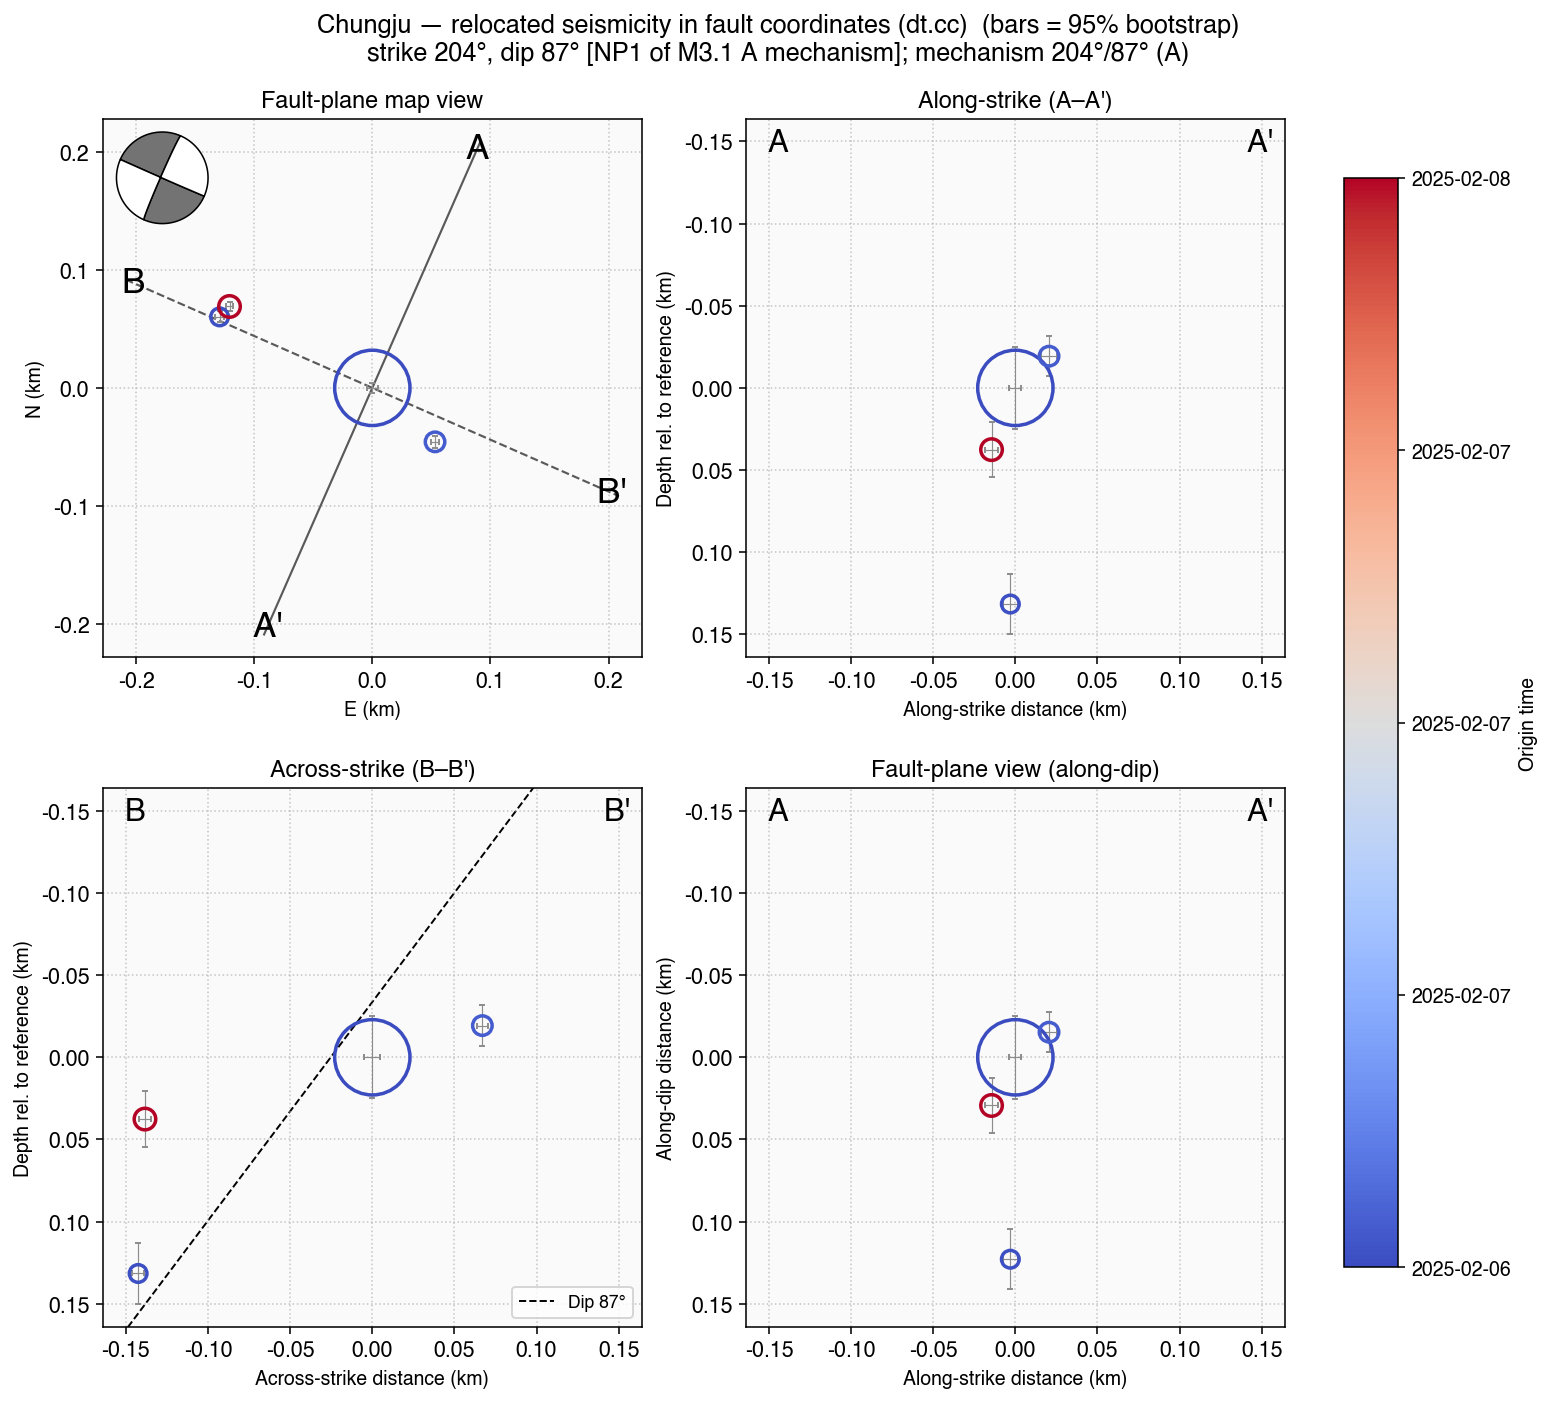
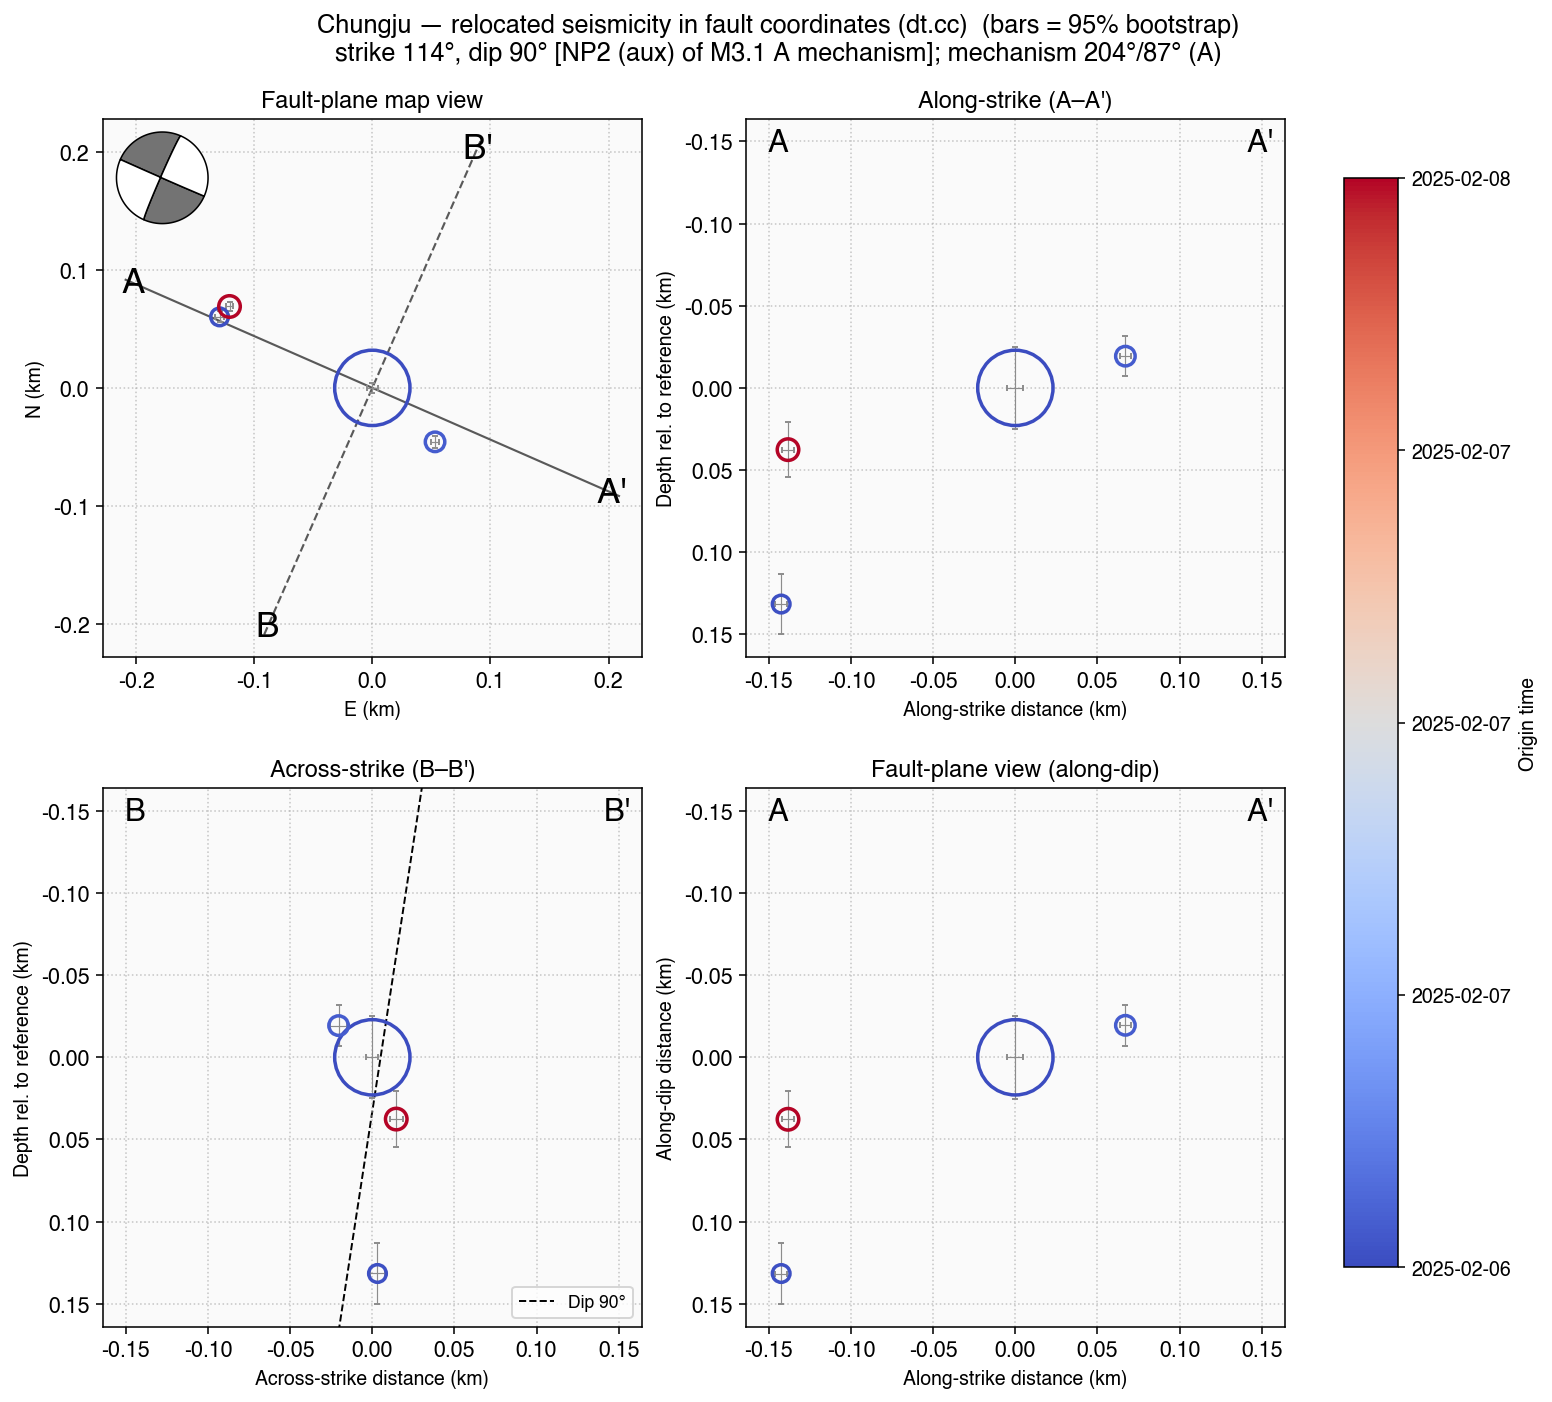
v1.1.3: NP1/NP2 picked by SVD-strike match (fixes wrong default in v1.1.2)
User confirmed that for Sangju the M3.9's NP2 (aux, E-W strike 104°) is the actual fault
plane, not NP1 (N-S 195°). The 2019 dt.cc-relocated swarm clearly elongates E-W (~360 m
vs ~140 m N-S), which is the visual disambiguation signal. v1.1.2 hardcoded NP1 because I
worried SVD strike was unstable on small clouds; for tight non-elongated swarms it indeed
is, but on a 2.5:1 aspect cluster like Sangju's 2019 swarm SVD is the right tie-breaker.

- viz._mechanism_plane: NP1 vs NP2 picked by circular distance mod 180° between each
  plane's strike and the cloud's SVD strike. Fall back to NP1 only when no SVD strike
  is supplied (caller passes None or there are <3 events).

Result:
- sangju: NP2 (strike 104.2°, dip 79.3°), 0.7° off the cloud's SVD strike of 103.5°.
- chungju: NP2 (strike 113.7°, dip 89.5°), close to its SVD strike of 125.2°.

If a cluster's geology argues for the other plane, pass explicit strike/dip to
fault_sections / plot_3d_plane.

diff --git a/pocketquake/__init__.py b/pocketquake/__init__.py
@@ -16,7 +16,7 @@ Workflow (see `pocketquake.orchestrate.orchestrate`):
         → build & execute `03_results_<cluster>.ipynb`
 """
 
-__version__ = "1.1.2"            # single source of truth — pyproject.toml reads this via setuptools dynamic
+__version__ = "1.1.3"            # single source of truth — pyproject.toml reads this via setuptools dynamic
 
 import os
 

diff --git a/CHANGELOG.md b/CHANGELOG.md
@@ -3,6 +3,32 @@
 Versioning follows [Semantic Versioning](https://semver.org/) (`MAJOR.MINOR.PATCH`).
 The single source of truth is `pocketquake.__version__`; `pyproject.toml` reads it via setuptools dynamic.
 
+## 1.1.3 — 2026-05-31
+
+Fixes a wrong default in v1.1.2: the user confirmed that for Sangju the M3.9's **NP2**
+(aux, E-W) is the actual fault plane, not NP1 (N-S). The dt.cc-relocated 2019 swarm
+clearly elongates E-W (~360 m vs ~140 m N-S), which is the visual signal that picks the
+correct plane — exactly the SVD-strike match heuristic I had in the first v1.1.2
+implementation but oversimplified away to "always NP1". Restored.
+
+**Changed**
+- `pipeline/viz.py:_mechanism_plane` now disambiguates NP1 vs NP2 by **matching the
+  reference mechanism's nodal-plane strike to the SVD strike of the relocated cloud**
+  (circular distance mod 180°, since strike is bidirectional). The plane whose strike is
+  closer to the cloud's elongation direction wins. Falls back to NP1 only when no SVD
+  strike is available.
+- Result for **sangju**: now picks NP2 (strike **104.2°**, dip 79.3°) — only **0.7° off**
+  the cloud's SVD strike of 103.5°. NP1 was 88° off, wrong.
+- Result for **chungju**: also now picks NP2 (strike 113.7°, dip 89.5°) — its cloud's
+  SVD strike is 125.2°, closer to NP2 (12°) than NP1 (88°). If you've reasoned out NP1 as
+  the actual rupture plane for chungju, pass explicit `strike=`/`dip=` to `fault_sections`
+  / `plot_3d_plane`.
+
+**Verified**
+- Sangju default + `_main` notebooks regenerated (31 cells / 32 cells, 0 errors). Fault-frame
+  sections now use NP2 of the M3.9 mainshock, anchored at the mainshock hypocenter.
+- Chungju fault_sections demo figure refreshed for docs consistency.
+
 ## 1.1.2 — 2026-05-31
 
 Three follow-ups from inspecting the v1.1.1 Sangju notebook.
